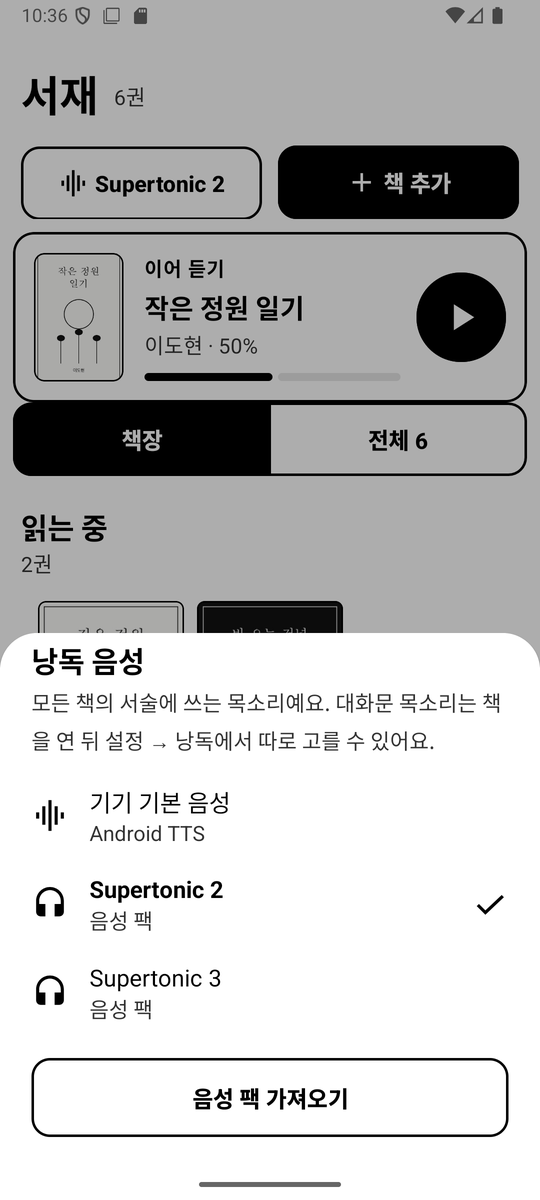
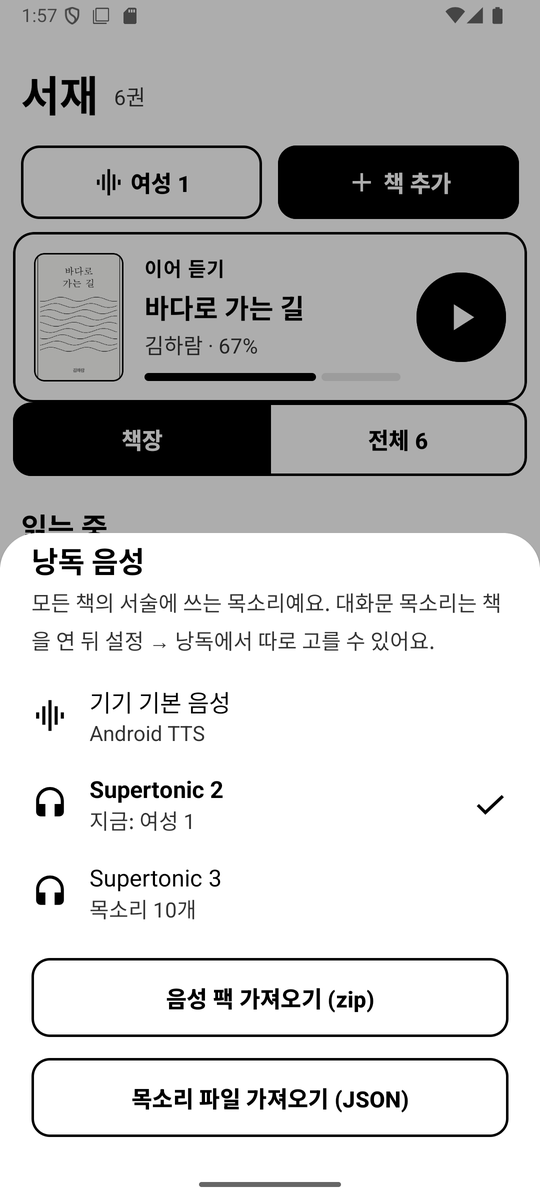
사용 방법 문서와 화면 추가
docs/guide.md: 책 모으기, 목소리 고르기, 화면 끄고 듣기, 대사만 다른 목소리로, 발음 고치기,
읽기 옵션, 책장 정리, 직접 만든 목소리 넣기를 시나리오별 단계와 스크린샷으로 안내.
README에서 링크하고, 바뀐 음성·설정 화면은 새로 찍음.

diff --git a/docs/guide.md b/docs/guide.md
@@ -1,0 +1,142 @@
+# 사용 방법
+
+자주 하는 일을 시나리오별로 정리했습니다. 화면은 에뮬레이터에서 데모용 책으로 찍었습니다.
+
+1. [처음 켜고 책 모으기](#1-처음-켜고-책-모으기)
+2. [목소리 고르기](#2-목소리-고르기)
+3. [듣기: 이어 듣기, 화면 끄고 듣기](#3-듣기-이어-듣기-화면-끄고-듣기)
+4. [소설을 두 목소리로 듣기](#4-소설을-두-목소리로-듣기)
+5. [잘못 읽는 단어 고치기](#5-잘못-읽는-단어-고치기)
+6. [괄호, 각주, 약어 읽기 정하기](#6-괄호-각주-약어-읽기-정하기)
+7. [책장으로 정리하기](#7-책장으로-정리하기)
+8. [직접 만든 목소리 넣기](#8-직접-만든-목소리-넣기)
+
+---
+
+## 1. 처음 켜고 책 모으기
+
+기기 안 어디에 있든 EPUB을 모두 찾아 서재에 모읍니다. 파일은 복사하지 않고 원래 자리에서 읽습니다.
+
+1. 서재 위쪽 **+ 책 추가** → **기기에서 모두 찾기**.
+2. "기기의 EPUB 찾기" 창에서 **설정 열기** → 보이스 리더의 **모든 파일에 접근**을 허용하고 돌아옵니다. 돌아오면 바로 찾기 시작합니다.
+3. 그다음부터는 앱을 열 때마다 새로 생긴 파일만 더합니다.
+
+파일 하나만 넣고 싶으면 **파일 하나 고르기**를 쓰세요. 이때는 고른 파일을 서재로 복사합니다.
+
+<p align="center">
+  <img src="screenshots/add-book.png" width="31%" alt="책 추가 시트: 기기에서 모두 찾기, 파일 하나 고르기">
+  <img src="screenshots/find-permission.png" width="31%" alt="기기의 EPUB 찾기 권한 안내 창">
+  <img src="screenshots/library.png" width="31%" alt="책이 모인 서재">
+</p>
+<p align="center"><sub>책 추가 · 모든 파일 접근 안내 · 모인 서재</sub></p>
+
+## 2. 목소리 고르기
+
+1. 서재 위쪽의 음성 버튼(지금 목소리 이름이 적힌 버튼)을 누릅니다.
+2. 음성 팩이 없으면 **음성 팩 가져오기 (zip)** 로 설치합니다. 목소리 사용 동의를 확인한 뒤 zip을 고릅니다. zip 만드는 법은 [README](../README.md#음성-팩-만들기)에 있습니다.
+3. 음성 팩 행을 누르면 목소리 10종(여성 1~5, 남성 1~5)이 나옵니다. 누르는 즉시 그 목소리로 바뀌고 한 문장을 들려 줍니다.
+
+여기서 고른 목소리는 모든 책의 서술에 씁니다. **기기 기본 음성**은 안드로이드에 설치된 TTS를 그대로 씁니다.
+
+<p align="center">
+  <img src="screenshots/voices.png" width="31%" alt="낭독 음성 시트">
+  <img src="screenshots/voice-list.png" width="31%" alt="Supertonic 2의 목소리 목록, 여성 1 선택">
+</p>
+<p align="center"><sub>낭독 음성 · 팩 안의 목소리 고르기</sub></p>
+
+## 3. 듣기: 이어 듣기, 화면 끄고 듣기
+
+1. 서재의 **이어 듣기** 카드에서 ▶ 를 누르면 마지막으로 듣던 곳부터 바로 읽습니다.
+   책을 열어 듣고 싶으면 표지를 누르고, 화면 가운데를 한 번 눌러 아래 ▶ 를 누릅니다.
+2. 읽는 문장이 회색으로 칠해지고, 페이지는 저절로 넘어갑니다. ◀◀ ▶▶ 는 이전·다음 문장입니다.
+3. 화면을 끄거나 다른 앱으로 가도 계속 읽습니다. 알림과 잠금화면의 재생 버튼, 이어폰 버튼으로 일시정지·재생하고, 알림의 |◀ ▶| 로 이전·다음 장으로 갑니다.
+
+읽는 위치는 몇 초마다 저장되므로, 다음에 열면 그 자리부터 이어집니다.
+
+> 화면을 끄면 멈춘다면: e-ink 기기(Boox 등)에는 앱마다 '백그라운드에서 얼리기' 같은 절전 설정이 있습니다. 보이스 리더를 그 대상에서 빼 주세요.
+
+<p align="center">
+  <img src="screenshots/playing.png" width="31%" alt="낭독 중인 리더, 읽는 문장 하이라이트와 재생 버튼">
+  <img src="screenshots/reading.png" width="31%" alt="대사에 하이라이트가 잡힌 낭독 화면">
+</p>
+<p align="center">
+  <img src="screenshots/media-controls.png" width="50%" alt="알림의 재생 컨트롤">
+</p>
+<p align="center"><sub>읽는 문장 하이라이트 · 대사는 대화문 목소리로(4번) · 알림의 재생 컨트롤</sub></p>
+
+## 4. 소설을 두 목소리로 듣기
+
+서술은 차분한 목소리로, 따옴표로 시작하는 대사만 다른 목소리로 읽게 할 수 있습니다.
+
+1. 책을 열고 화면 가운데를 눌러 **설정** → **낭독**.
+2. **대화문 목소리** → 음성 팩 → 목소리를 고릅니다(예: 서술은 Supertonic 2의 여성 1, 대사는 Supertonic 3의 남성 1). 고르면 바로 들려 줍니다.
+3. 이 설정은 그 책에만 적용됩니다. 다시 한 목소리로 읽으려면 **서술과 같은 목소리**를 고르세요.
+
+같은 화면에서 **속도**(−/+)와 **문장 사이 쉼**(짧게·보통·길게)도 바꿀 수 있습니다.
+
+<p align="center">
+  <img src="screenshots/settings.png" width="31%" alt="설정 시트">
+  <img src="screenshots/narration.png" width="31%" alt="낭독 시트: 속도, 문장 사이 쉼, 대화문 목소리">
+  <img src="screenshots/dialogue-voice.png" width="31%" alt="대화문 목소리 시트">
+</p>
+<p align="center"><sub>설정 · 낭독 · 대화문 목소리</sub></p>
+
+## 5. 잘못 읽는 단어 고치기
+
+1. 본문에서 잘못 읽는 단어를 길게 눌러 선택하고, 메뉴에서 **발음 고치기**를 누릅니다.
+2. **읽는 법**에 소리 나는 대로 적고, **이 책만** 또는 **모든 책**을 골라 저장합니다. 낭독 중이면 그 문장을 바로 다시 읽어 줍니다.
+3. 고친 목록은 **설정 → 발음 사전**에서 보고, 고치거나 지울 수 있습니다.
+
+<p align="center">
+  <img src="screenshots/fix-select.png" width="31%" alt="텍스트 선택 메뉴의 발음 고치기">
+  <img src="screenshots/fix-dialog.png" width="31%" alt="발음 추가 창: 원문, 읽는 법, 이 책만 / 모든 책">
+</p>
+<p align="center"><sub>단어를 길게 눌러 발음 고치기 · 읽는 법 적기</sub></p>
+
+## 6. 괄호, 각주, 약어 읽기 정하기
+
+**설정 → 읽기 옵션**에서 켬 | 끔으로 고릅니다. 모든 책에 적용됩니다.
+
+| 옵션 | 켜면 | 끄면 |
+|---|---|---|
+| 괄호 안 내용 읽기 | ( )나 [ ] 안의 설명까지 읽음 | 괄호 안은 건너뜀 |
+| 각주 기호 읽기 | ¹, [1], * 같은 표시도 읽음 | 표시는 건너뜀 |
+| 영문 약어 풀어 읽기 | AI → 에이아이, TTS → 티티에스 | 엔진이 읽는 대로 둠 |
+
+<p align="center">
+  <img src="screenshots/reading-options.png" width="31%" alt="읽기 옵션 시트">
+</p>
+
+## 7. 책장으로 정리하기
+
+**읽는 중**과 **분류 안 된 책**은 저절로 묶이고, 그 밖의 책장은 직접 만듭니다. 한 책을 여러 책장에 둘 수 있습니다.
+
+1. 책 표지를 길게 누르고 **책장 정하기**를 고릅니다.
+2. 넣을 책장을 모두 체크합니다. 새 책장이 필요하면 **새 책장 만들어 넣기**.
+3. 책장 이름 옆 ⋮ 에서 책 넣고 빼기, 이름 바꾸기, 책장 지우기를 합니다. 책장을 지워도 책은 서재에 남습니다.
+
+<p align="center">
+  <img src="screenshots/book-actions.png" width="31%" alt="책을 길게 누른 메뉴: 책장 정하기, 서재에서 빼기">
+  <img src="screenshots/pick-shelves.png" width="31%" alt="책장 정하기: 체크로 고르기">
+  <img src="screenshots/shelves.png" width="31%" alt="소설, 에세이·묵상 책장">
+</p>
+<p align="center"><sub>책 길게 누르기 · 책장 고르기 · 책장별로 모인 서재</sub></p>
+
+## 8. 직접 만든 목소리 넣기
+
+Supertonic Voice Builder 등에서 만든 목소리 파일(`style_ttl`·`style_dp`가 든 JSON)을 설치된 음성 팩에 더할 수 있습니다.
+
+1. 목소리 파일을 기기에 옮깁니다(예: 다운로드 폴더).
+2. 음성 버튼 → **목소리 파일 가져오기 (JSON)** → 동의를 확인하고 파일을 고릅니다.
+3. **어느 음성 팩에 넣을까요?** 에서 그 파일을 만든 모델 버전과 같은 팩을 고릅니다.
+4. 팩의 목소리 목록 맨 끝에 파일 이름으로 추가됩니다. 누르면 들어 보고 그 목소리로 고릅니다. 대화문 목소리로도 쓸 수 있습니다.
+
+> Supertonic 2와 3은 목소리 공간이 서로 달라서, 2용 파일을 3에 넣으면 오류 없이 들어가지만 엉뚱한 목소리가 납니다.
+> 본인 목소리이거나 화자에게 명시적인 동의를 받은 목소리만 넣으세요.
+
+<p align="center">
+  <img src="screenshots/consent.png" width="31%" alt="목소리 사용 동의 창">
+  <img src="screenshots/pick-pack.png" width="31%" alt="어느 음성 팩에 넣을까요? 시트">
+  <img src="screenshots/voice-list.png" width="31%" alt="목록 맨 끝에 추가된 목소리">
+</p>
+<p align="center"><sub>동의 확인 · 넣을 팩 고르기 · 목록 맨 끝에 추가됨</sub></p>

diff --git a/README.md b/README.md
@@ -8,6 +8,8 @@
 
 ![보이스 리더: 서재, 대사 낭독, 책장, 읽기 옵션](docs/screenshots/hero.png)
 
+**[사용 방법](docs/guide.md)**: 책 모으기, 목소리 고르기, 화면 끄고 듣기, 대사만 다른 목소리로, 발음 고치기, 책장 정리, 직접 만든 목소리 넣기를 화면과 함께 단계별로 안내합니다.
+
 ## 화면
 
 <p align="center">
